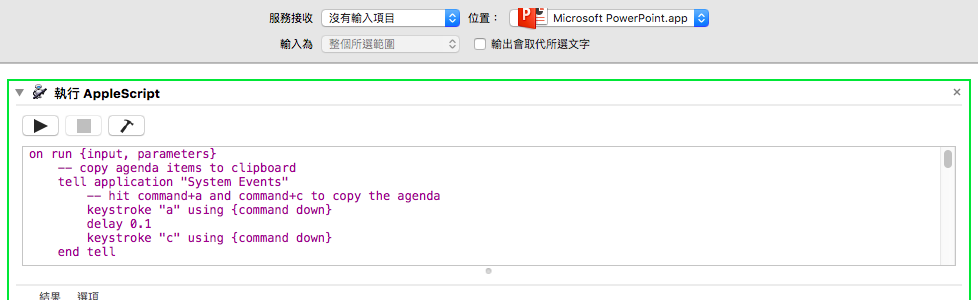
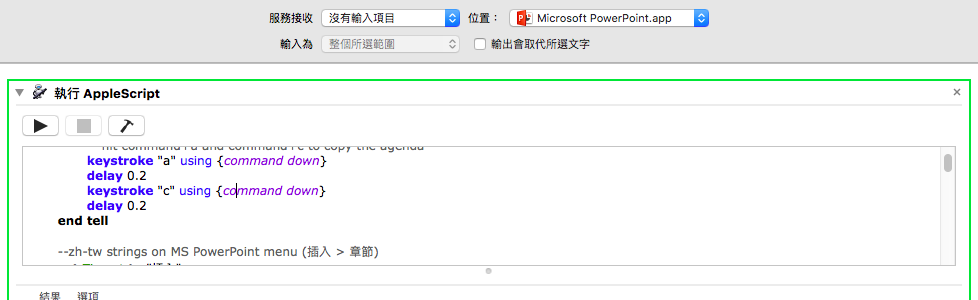
0.4
1. Fix delays between key press events

Changed region(s): [[0.0307, 0.48, 0.4601, 0.9], [0.5215, 0.03, 0.7055, 0.09], [0.9509, 0.54, 0.9816, 0.57]]

diff --git a/README.md b/README.md
@@ -23,3 +23,5 @@ Release history:
 	3. Add slide and section for “End”
   [0.3] 2016-3-9.
 	1. Add key press events to copy agenda to clipboard (cmd+A > cmd+C)
+  [0.4] 2016-3-9
+  	1. Fix delays between key press events 
